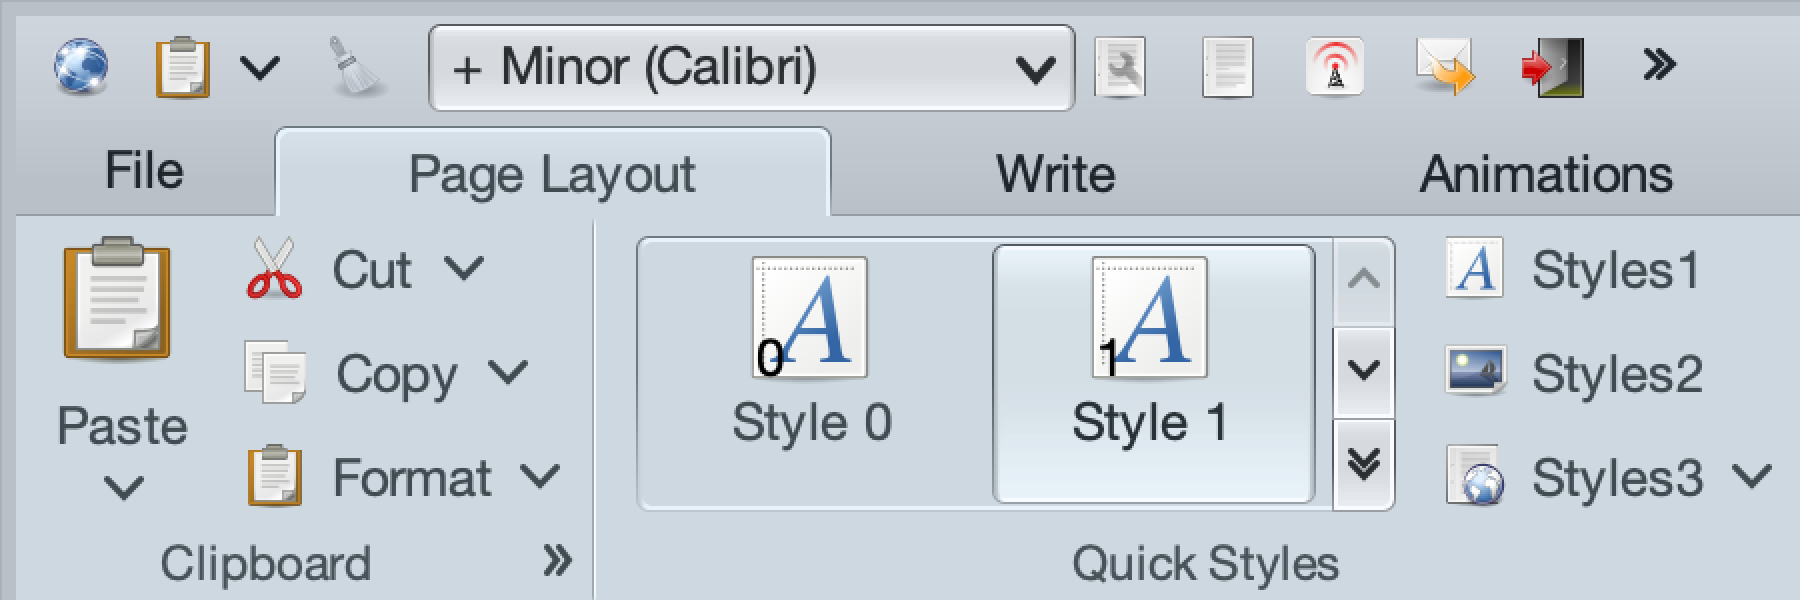
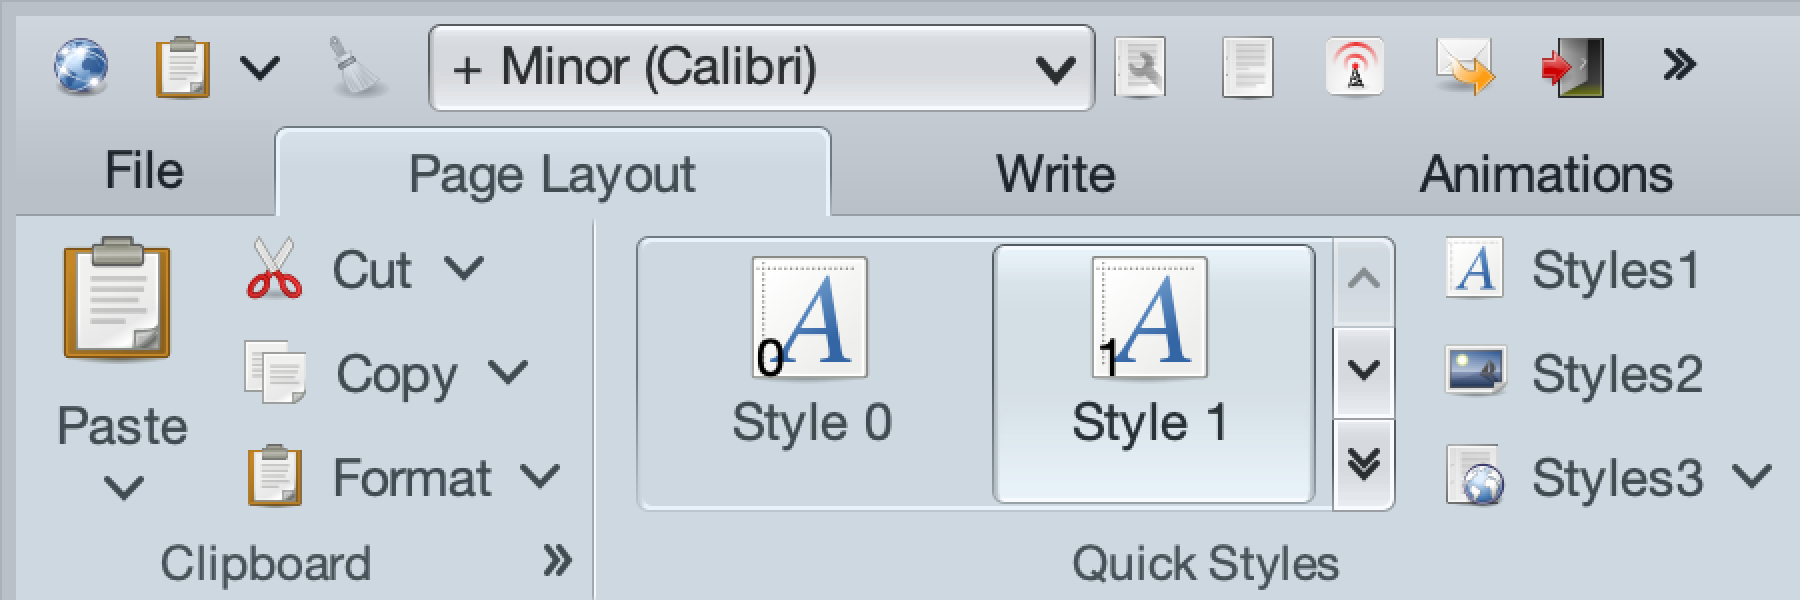
More cleanups in button shapers, part 3
* Simplify the preferred size logic of command buttons
* Remove the uiPreferredSize parameter from RadianceButtonShaper.getPreferredSize API

For #557

Changed region(s): [[0.56, 0.03, 0.9644, 0.18]]

diff --git a/component/src/main/java/org/pushingpixels/radiance/component/internal/theming/common/ui/RadianceCommandButtonUI.java b/component/src/main/java/org/pushingpixels/radiance/component/internal/theming/common/ui/RadianceCommandButtonUI.java
@@ -53,8 +53,6 @@ import org.pushingpixels.radiance.theming.api.RadianceThemingSlices.AnimationFac
 import org.pushingpixels.radiance.theming.api.RadianceThemingSlices.ComponentStateFacet;
 import org.pushingpixels.radiance.theming.api.painter.outline.FlatOutlinePainter;
 import org.pushingpixels.radiance.theming.api.painter.outline.RadianceOutlinePainter;
-import org.pushingpixels.radiance.theming.api.shaper.ClassicButtonShaper;
-import org.pushingpixels.radiance.theming.api.shaper.RadianceButtonShaper;
 import org.pushingpixels.radiance.theming.internal.AnimationConfigurationManager;
 import org.pushingpixels.radiance.theming.internal.animation.StateTransitionTracker;
 import org.pushingpixels.radiance.theming.internal.animation.StateTransitionTracker.ModelStateInfo;
@@ -649,14 +647,9 @@ public class RadianceCommandButtonUI extends BasicCommandButtonUI
 
     @Override
     public Dimension getPreferredSize(JComponent c) {
-        RadianceButtonShaper shaper = ClassicButtonShaper.INSTANCE;
-
-        Dimension superPref = super.getPreferredSize(this.commandButton);
-        if (superPref == null)
-            return null;
-
-        if (shaper == null)
-            return superPref;
+        JCommandButton button = (JCommandButton) c;
+        Dimension preferredSize = this.layoutManager.getPreferredSize(button.getContentModel(),
+            button.getPresentationModel());
 
         // Do not enforce min size on buttons in the ribbon
         // Additional fix - buttons with popup action should
@@ -667,14 +660,14 @@ public class RadianceCommandButtonUI extends BasicCommandButtonUI
                 && (SwingUtilities.getAncestorOfClass(JRibbon.class, this.commandButton) == null)
                 && (SwingUtilities.getAncestorOfClass(JBreadcrumbBar.class, this.commandButton) == null)
                 && (SwingUtilities.getAncestorOfClass(AbstractPopupMenuPanel.class, this.commandButton) == null)) {
-            JButton forSizing = new JButton(this.commandButton.getContentModel().getText(), this.icon);
-            Dimension result = shaper.getPreferredSize(forSizing, superPref);
-            if (this.commandButton.getContentModel().hasSecondaryContent()) {
-                result.width = superPref.width;
+            int minButtonWidth =
+                RadianceSizeUtils.getMinButtonWidth(RadianceSizeUtils.getComponentFontSize(button));
+            if (!this.commandButton.getContentModel().hasSecondaryContent()) {
+                return new Dimension(Math.max(preferredSize.width, minButtonWidth),
+                    preferredSize.height);
             }
-            return result;
         }
-        return superPref;
+        return preferredSize;
     }
 
     /**

diff --git a/theming/src/main/java/org/pushingpixels/radiance/theming/api/shaper/PillButtonShaper.java b/theming/src/main/java/org/pushingpixels/radiance/theming/api/shaper/PillButtonShaper.java
@@ -80,8 +80,8 @@ public class PillButtonShaper implements RadianceButtonShaper, RectangularButton
     }
 
     @Override
-    public Dimension getPreferredSize(AbstractButton button, Dimension uiPreferredSize) {
-        Dimension result;
+    public Dimension getPreferredSize(AbstractButton button) {
+        Dimension result = RadianceMetricsUtilities.getPreferredButtonSize(button);
         boolean toTweakWidth = false;
         boolean toTweakHeight = false;
 
@@ -90,14 +90,11 @@ public class PillButtonShaper implements RadianceButtonShaper, RectangularButton
         boolean hasText = RadianceCoreUtilities.hasText(button);
         Insets margin = button.getMargin();
 
-        result = uiPreferredSize;
-
         boolean hasNoMinSizeProperty = RadianceCoreUtilities.hasNoMinSizeProperty(button);
         if ((!hasNoMinSizeProperty) && hasText) {
-            int baseWidth = uiPreferredSize.width;
-            baseWidth = Math.max(baseWidth + uiPreferredSize.height, RadianceSizeUtils
-                    .getMinButtonWidth(RadianceSizeUtils.getComponentFontSize(button)));
-            result = new Dimension(baseWidth, uiPreferredSize.height);
+            result = new Dimension(Math.max(result.width + result.height,
+                RadianceSizeUtils.getMinButtonWidth(RadianceSizeUtils.getComponentFontSize(button))),
+                result.height);
         } else {
             if (hasNoMinSizeProperty) {
                 if (margin != null) {

diff --git a/theming/src/main/java/org/pushingpixels/radiance/theming/api/shaper/ClassicButtonShaper.java b/theming/src/main/java/org/pushingpixels/radiance/theming/api/shaper/ClassicButtonShaper.java
@@ -83,8 +83,8 @@ public class ClassicButtonShaper implements RadianceButtonShaper, RectangularBut
     }
 
     @Override
-    public Dimension getPreferredSize(AbstractButton button, Dimension uiPreferredSize) {
-        Dimension result;
+    public Dimension getPreferredSize(AbstractButton button) {
+        Dimension result = RadianceMetricsUtilities.getPreferredButtonSize(button);
         boolean toTweakWidth = false;
         boolean toTweakHeight = false;
 
@@ -93,14 +93,11 @@ public class ClassicButtonShaper implements RadianceButtonShaper, RectangularBut
         boolean hasText = RadianceCoreUtilities.hasText(button);
         Insets margin = button.getMargin();
 
-        result = uiPreferredSize;
-
         boolean hasNoMinSizeProperty = RadianceCoreUtilities.hasNoMinSizeProperty(button);
         if ((!hasNoMinSizeProperty) && hasText) {
-            int baseWidth = uiPreferredSize.width;
-            baseWidth = Math.max(baseWidth, RadianceSizeUtils
-                    .getMinButtonWidth(RadianceSizeUtils.getComponentFontSize(button)));
-            result = new Dimension(baseWidth, uiPreferredSize.height);
+            result = new Dimension(Math.max(result.width,
+                RadianceSizeUtils.getMinButtonWidth(RadianceSizeUtils.getComponentFontSize(button))),
+                result.height);
         } else {
             if (hasNoMinSizeProperty) {
                 if (margin != null) {

diff --git a/theming/src/main/java/org/pushingpixels/radiance/theming/internal/ui/RadianceToggleButtonUI.java b/theming/src/main/java/org/pushingpixels/radiance/theming/internal/ui/RadianceToggleButtonUI.java
@@ -272,20 +272,8 @@ public class RadianceToggleButtonUI extends BasicToggleButtonUI implements
     @Override
     public Dimension getPreferredSize(JComponent c) {
         AbstractButton button = (AbstractButton) c;
-        RadianceButtonShaper shaper = RadianceCoreUtilities
-                .getButtonShaper(button);
-
-        // fix for defect 263
-        Dimension superPref = RadianceMetricsUtilities.getPreferredButtonSize(button);
-        if (superPref == null) {
-            return null;
-        }
-
-        if (shaper == null) {
-            return superPref;
-        }
-
-        return shaper.getPreferredSize(button, superPref);
+        RadianceButtonShaper shaper = RadianceCoreUtilities.getButtonShaper(button);
+        return shaper.getPreferredSize(button);
     }
 
     @Override

diff --git a/theming/src/main/java/org/pushingpixels/radiance/theming/internal/ui/RadianceButtonUI.java b/theming/src/main/java/org/pushingpixels/radiance/theming/internal/ui/RadianceButtonUI.java
@@ -373,18 +373,7 @@ public class RadianceButtonUI extends BasicButtonUI implements
     public Dimension getPreferredSize(JComponent c) {
         AbstractButton button = (AbstractButton) c;
         RadianceButtonShaper shaper = RadianceCoreUtilities.getButtonShaper(button);
-
-        // fix for defect 263
-        Dimension superPref = RadianceMetricsUtilities.getPreferredButtonSize(button);
-        if (superPref == null) {
-            return null;
-        }
-
-        if (shaper == null) {
-            return superPref;
-        }
-
-        return shaper.getPreferredSize(button, superPref);
+        return shaper.getPreferredSize(button);
     }
 
     @Override

diff --git a/theming/src/main/java/org/pushingpixels/radiance/theming/api/shaper/RadianceButtonShaper.java b/theming/src/main/java/org/pushingpixels/radiance/theming/api/shaper/RadianceButtonShaper.java
@@ -58,10 +58,7 @@ public interface RadianceButtonShaper extends RadianceTrait {
      * Returns the preferred size for the specified button.
      *
      * @param button          A button.
-     * @param uiPreferredSize Preferred size of the button under the regular conditions
-     *                        (plain rectangular button).
      * @return The preferred size for the specified button.
      */
-    Dimension getPreferredSize(AbstractButton button,
-            Dimension uiPreferredSize);
+    Dimension getPreferredSize(AbstractButton button);
 }

diff --git a/component/src/main/java/org/pushingpixels/radiance/component/internal/ui/common/BasicCommandButtonUI.java b/component/src/main/java/org/pushingpixels/radiance/component/internal/ui/common/BasicCommandButtonUI.java
@@ -580,13 +580,6 @@ public abstract class BasicCommandButtonUI extends CommandButtonUI {
     }
 
     @Override
-    public Dimension getPreferredSize(JComponent c) {
-        JCommandButton button = (JCommandButton) c;
-        return this.layoutManager.getPreferredSize(button.getContentModel(),
-                button.getPresentationModel());
-    }
-
-    @Override
     public CommandButtonLayoutInfo getLayoutInfo() {
         if (this.layoutInfo != null) {
             return this.layoutInfo;
